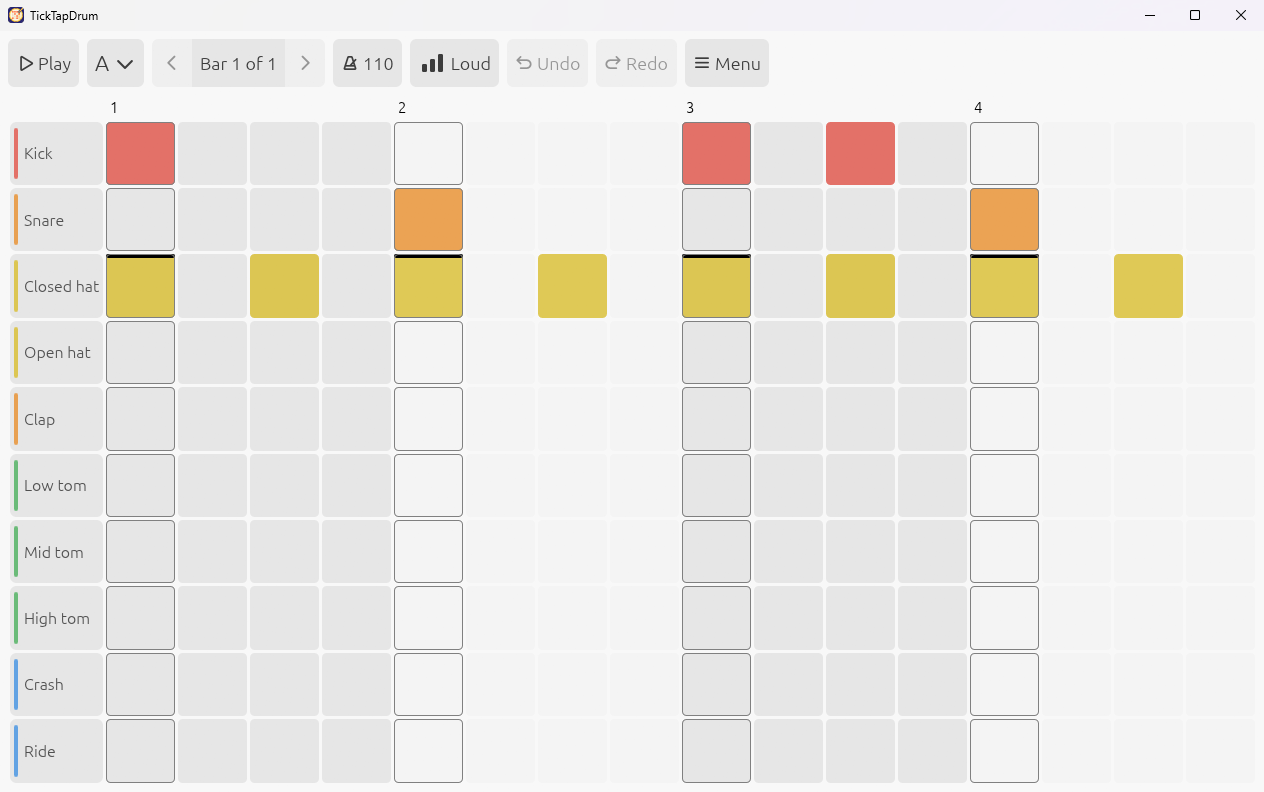
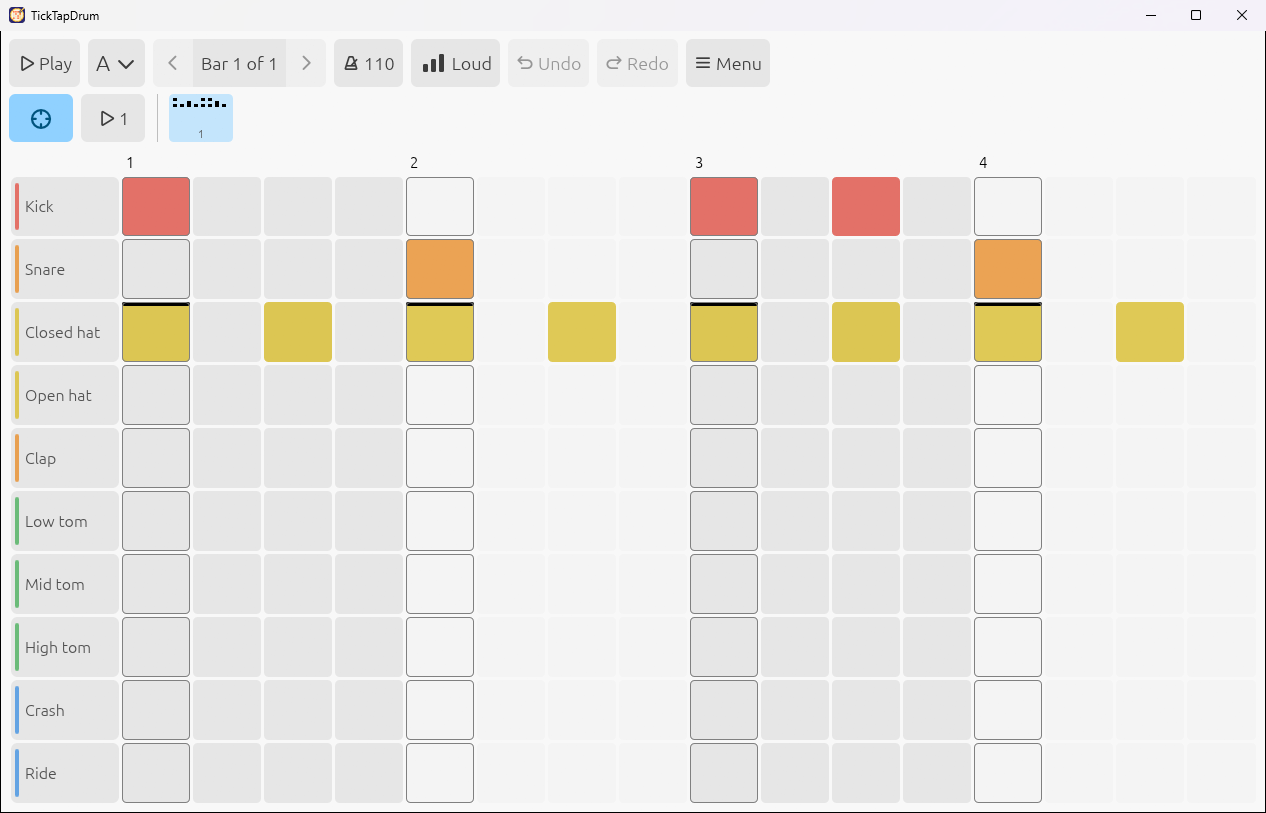
Update the Windows screenshot and add an Android one to the README
Both show the Rock beat. The Windows one now shows the bar strip.

diff --git a/README.md b/README.md
@@ -3,7 +3,10 @@
 TickTapDrum makes drum beats. You need no music knowledge: tap a box in the grid, and a drum plays
 at that moment. It runs on Windows, macOS, Linux, Android, iPhone and iPad.
 
-![TickTapDrum on Windows, with the Rock beat in the grid](docs/images/desktop.png)
+<p>
+  <img src="docs/images/desktop.png" alt="TickTapDrum on Windows, with the Rock beat in the grid" height="360">
+  <img src="docs/images/android.png" alt="TickTapDrum on an Android phone, with the Rock beat in the grid" height="360">
+</p>
 
 ## What it does
 
